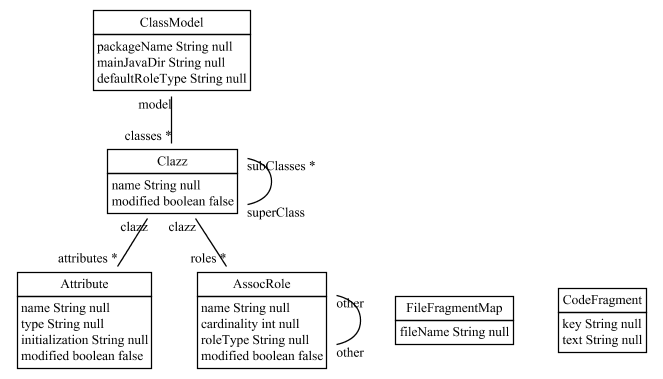
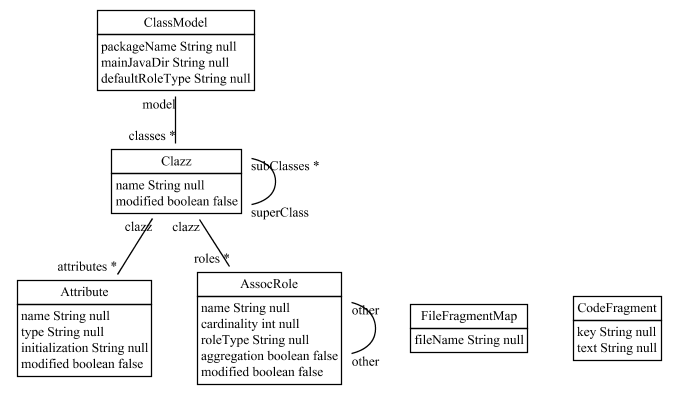
generating PROPERT_attrName constant for Clemens

Changed region(s): [[0.0, 0.3193, 0.7843, 0.9868], [0.1207, 0.0, 0.3922, 0.2902], [0.8145, 0.7256, 0.9955, 0.9578]]

diff --git a/src/main/java/org/fulib/util/Generator4ClassFile.java b/src/main/java/org/fulib/util/Generator4ClassFile.java
@@ -79,6 +79,12 @@ public class Generator4ClassFile {
 
         for (Attribute attr : clazz.getAttributes())
         {
+            attrTemplate = group.getInstanceOf("propertyDecl");
+            attrTemplate.add("name", attr.getName());
+            result = attrTemplate.render();
+            fragmentMap.add(Parser.ATTRIBUTE + ":PROPERTY_" + attr.getName(), result, 2, attr.getModified());
+
+
             attrTemplate = group.getInstanceOf("attrDecl");
             attrTemplate.add("type", attr.getType());
             attrTemplate.add("name", attr.getName());

diff --git a/src/main/java/org/fulib/classmodel/AssocRole.java b/src/main/java/org/fulib/classmodel/AssocRole.java
@@ -240,4 +240,14 @@ public AssocRole setOther(AssocRole value)
    }
 
 
+   public static final String PROPERTY_name = "name";
+
+   public static final String PROPERTY_cardinality = "cardinality";
+
+   public static final String PROPERTY_roleType = "roleType";
+
+   public static final String PROPERTY_aggregation = "aggregation";
+
+   public static final String PROPERTY_modified = "modified";
+
 }

diff --git a/src/main/java/org/fulib/classmodel/Attribute.java b/src/main/java/org/fulib/classmodel/Attribute.java
@@ -192,4 +192,12 @@ public class Attribute
 
    }
 
+   public static final String PROPERTY_name = "name";
+
+   public static final String PROPERTY_type = "type";
+
+   public static final String PROPERTY_initialization = "initialization";
+
+   public static final String PROPERTY_modified = "modified";
+
 }

diff --git a/src/main/java/org/fulib/classmodel/ClassModel.java b/src/main/java/org/fulib/classmodel/ClassModel.java
@@ -238,4 +238,10 @@ public class ClassModel
 
    }
 
+   public static final String PROPERTY_packageName = "packageName";
+
+   public static final String PROPERTY_mainJavaDir = "mainJavaDir";
+
+   public static final String PROPERTY_defaultRoleType = "defaultRoleType";
+
 }

diff --git a/src/main/java/org/fulib/classmodel/CodeFragment.java b/src/main/java/org/fulib/classmodel/CodeFragment.java
@@ -114,4 +114,8 @@ public class CodeFragment
    {
    }
 
+   public static final String PROPERTY_key = "key";
+
+   public static final String PROPERTY_text = "text";
+
 }

diff --git a/src/main/java/org/fulib/classmodel/Clazz.java b/src/main/java/org/fulib/classmodel/Clazz.java
@@ -445,4 +445,8 @@ public class Clazz
 
    }
 
+   public static final String PROPERTY_name = "name";
+
+   public static final String PROPERTY_modified = "modified";
+
 }

diff --git a/src/main/java/org/fulib/classmodel/FileFragmentMap.java b/src/main/java/org/fulib/classmodel/FileFragmentMap.java
@@ -341,4 +341,6 @@ public class FileFragmentMap
    {
    }
 
+   public static final String PROPERTY_fileName = "fileName";
+
 }
